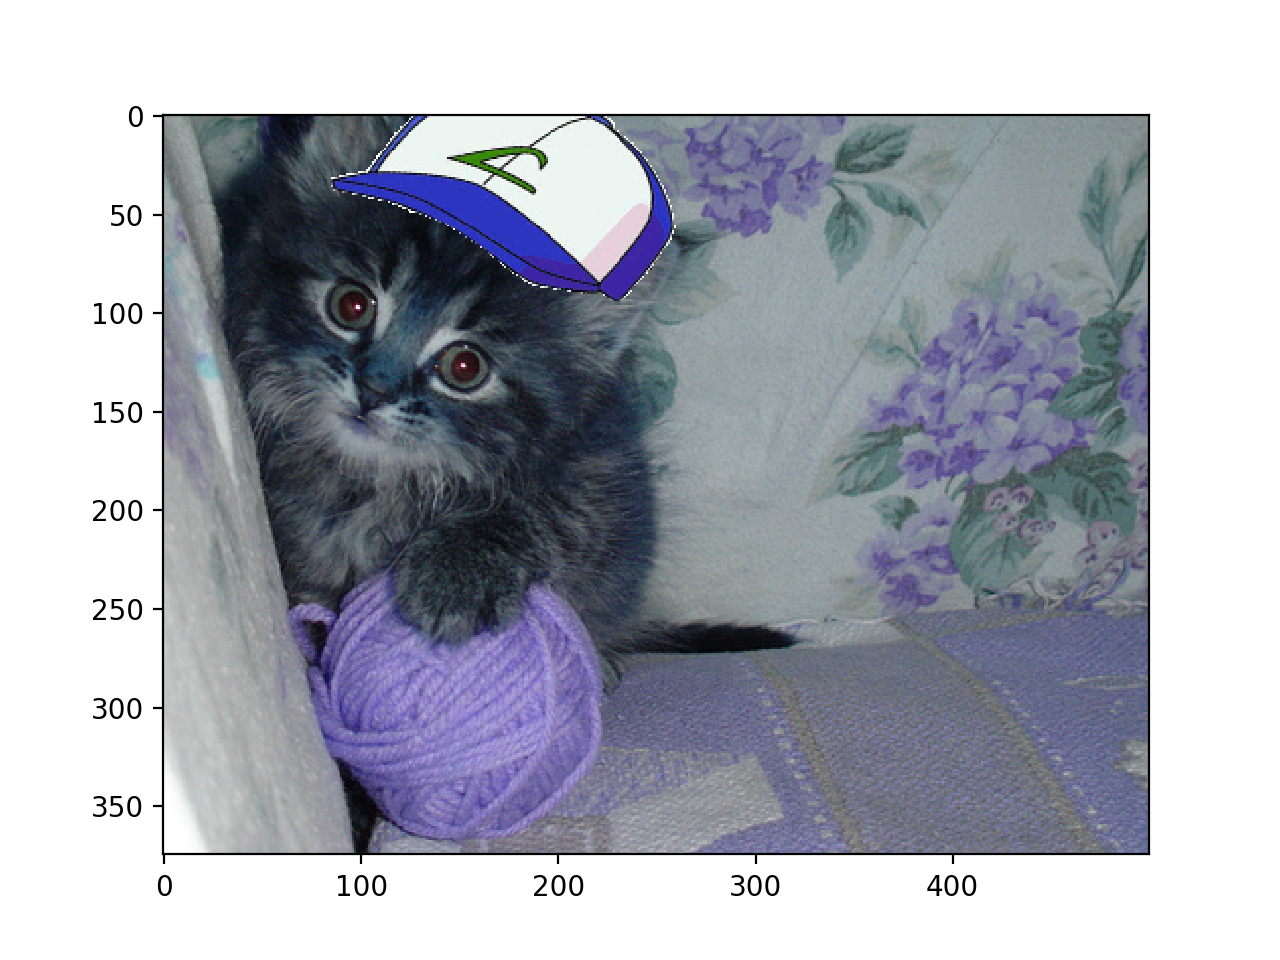
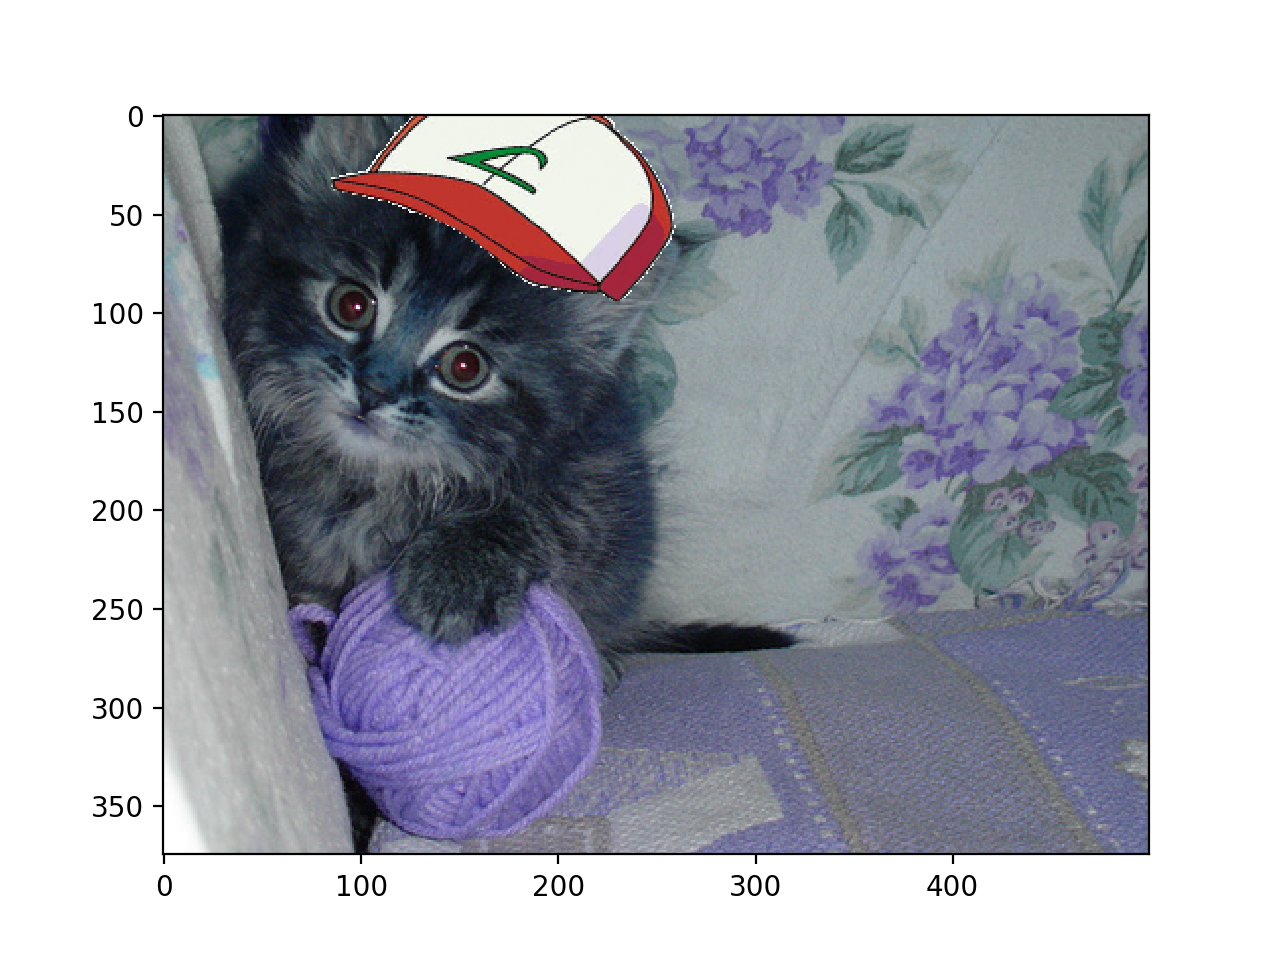
more ashhats

Changed region(s): [[0.25, 0.125, 0.5312, 0.3125]]

diff --git a/add_filter.py b/add_filter.py
@@ -48,6 +48,11 @@ def ashhat_filter(image, coord):
 
     hat = np.array(hat,dtype = np.float64)
     hat /= 255.0
+
+    new_chan = np.copy(hat[:,:,0])
+    hat[:,:,0] = hat[:,:,2]
+    hat[:,:,2] = new_chan
+
     image = np.array(image,dtype =np.float64)
     image /= 255.0
 
